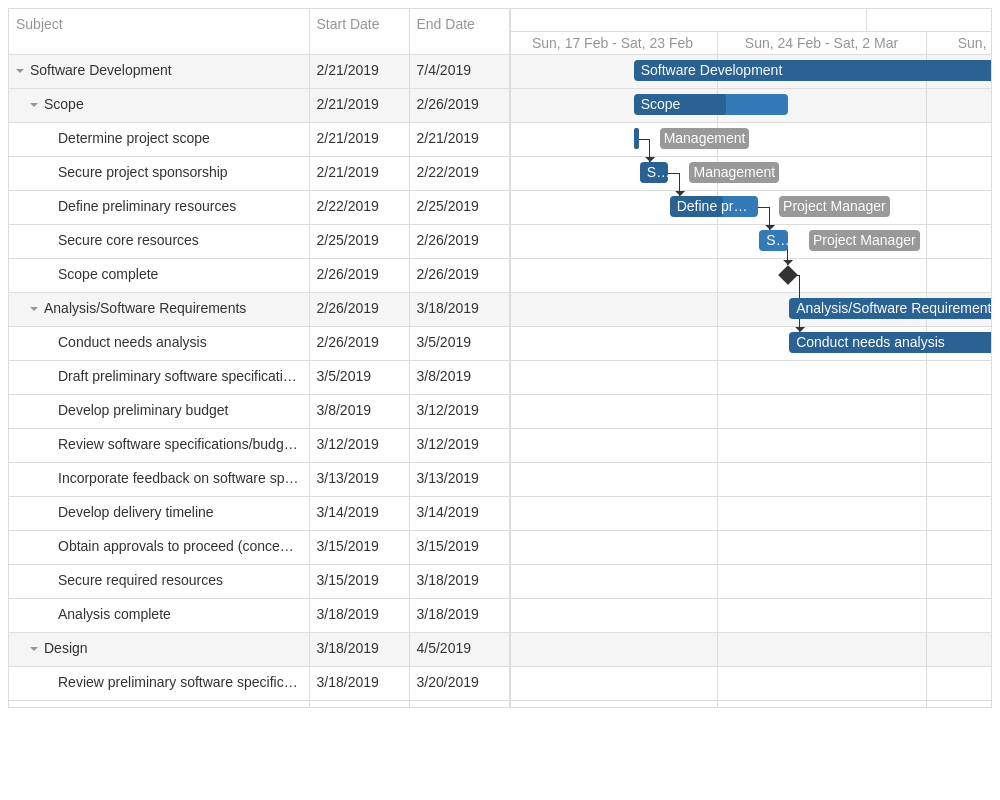
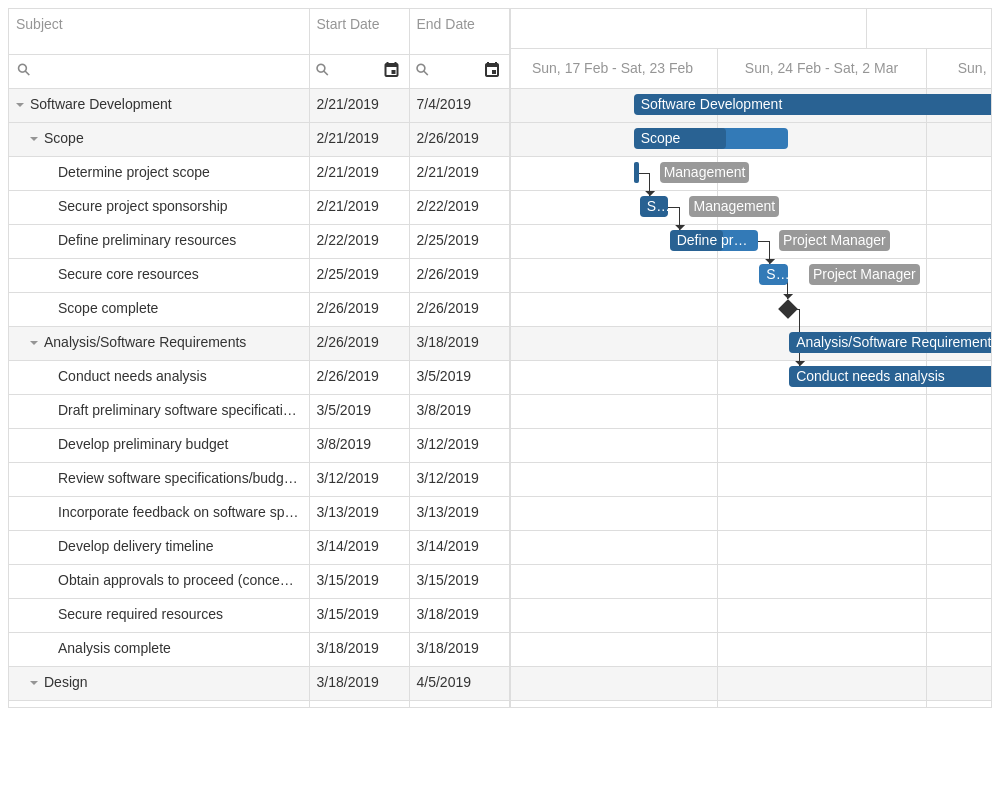
dxGantt: update Filtering demos (#1363)
* dxDiagram: update menu badges

* dxGantt: update Filtering demos

* dxGantt: Update FilterRow etalon

* dxGantt: temporary ignore react, vue, angular

diff --git a/JSDemos/Demos/Gantt/HeaderFilter/React/App.js b/JSDemos/Demos/Gantt/HeaderFilter/React/App.js
@@ -1,7 +1,7 @@
 import React from 'react';
 
 import Gantt, {
-  Tasks, Dependencies, Resources, ResourceAssignments, Column, Editing,
+  Tasks, Dependencies, Resources, ResourceAssignments, Column, Editing, HeaderFilter,
 } from 'devextreme-react/gantt';
 
 import {
@@ -27,6 +27,7 @@ class App extends React.Component {
         <Column dataField="end" caption="End Date" />
 
         <Editing enabled={true} />
+        <HeaderFilter visible={true} />
       </Gantt>
     );
   }

diff --git a/JSDemos/Demos/Gantt/FilterRow/React/App.js b/JSDemos/Demos/Gantt/FilterRow/React/App.js
@@ -1,7 +1,7 @@
 import React from 'react';
 
 import Gantt, {
-  Tasks, Dependencies, Resources, ResourceAssignments, Column, Editing,
+  Tasks, Dependencies, Resources, ResourceAssignments, Column, Editing, FilterRow,
 } from 'devextreme-react/gantt';
 
 import {
@@ -27,6 +27,7 @@ class App extends React.Component {
         <Column dataField="end" caption="End Date" />
 
         <Editing enabled={true} />
+        <FilterRow visible={true} />
       </Gantt>
     );
   }

diff --git a/JSDemos/Demos/Gantt/HeaderFilter/Vue/App.vue b/JSDemos/Demos/Gantt/HeaderFilter/Vue/App.vue
@@ -26,6 +26,7 @@
       data-field="end"
       caption="End Date"
     />
+    <DxGanttHeaderFilter :visible="true"/>
   </DxGantt>
 </template>
 <script>
@@ -37,6 +38,7 @@ import {
   DxResourceAssignments,
   DxColumn,
   DxEditing,
+  DxGanttHeaderFilter,
 } from 'devextreme-vue/gantt';
 
 import {
@@ -55,6 +57,7 @@ export default {
     DxResourceAssignments,
     DxColumn,
     DxEditing,
+    DxGanttHeaderFilter,
   },
   data() {
     return {

diff --git a/JSDemos/Demos/Gantt/FilterRow/Vue/App.vue b/JSDemos/Demos/Gantt/FilterRow/Vue/App.vue
@@ -26,6 +26,7 @@
       data-field="end"
       caption="End Date"
     />
+    <DxFilterRow :visible="true"/>
   </DxGantt>
 </template>
 <script>
@@ -37,6 +38,7 @@ import {
   DxResourceAssignments,
   DxColumn,
   DxEditing,
+  DxFilterRow,
 } from 'devextreme-vue/gantt';
 
 import {
@@ -55,6 +57,7 @@ export default {
     DxResourceAssignments,
     DxColumn,
     DxEditing,
+    DxFilterRow,
   },
   data() {
     return {

diff --git a/JSDemos/Demos/Gantt/HeaderFilter/Angular/app/app.component.html b/JSDemos/Demos/Gantt/HeaderFilter/Angular/app/app.component.html
@@ -14,4 +14,5 @@
     <dxi-column dataField="end" caption="End Date" dataType="date"></dxi-column>
 
     <dxo-editing [enabled]="true"></dxo-editing>
+    <dxo-header-filter  [visible]="true"></dxo-header-filter>
 </dx-gantt>

diff --git a/JSDemos/Demos/Gantt/FilterRow/Angular/app/app.component.html b/JSDemos/Demos/Gantt/FilterRow/Angular/app/app.component.html
@@ -14,4 +14,5 @@
     <dxi-column dataField="end" caption="End Date" dataType="date"></dxi-column>
 
     <dxo-editing [enabled]="true"></dxo-editing>
+    <dxo-filter-row [visible]="true"></dxo-filter-row>
 </dx-gantt>

diff --git a/JSDemos/Demos/Gantt/HeaderFilter/jQuery/index.js b/JSDemos/Demos/Gantt/HeaderFilter/jQuery/index.js
@@ -29,5 +29,8 @@ $(() => {
     }],
     scaleType: 'weeks',
     taskListWidth: 500,
+    headerFilter: {
+      visible: true,
+    },
   });
 });

diff --git a/JSDemos/Demos/Gantt/FilterRow/jQuery/index.js b/JSDemos/Demos/Gantt/FilterRow/jQuery/index.js
@@ -29,5 +29,8 @@ $(() => {
     }],
     scaleType: 'weeks',
     taskListWidth: 500,
+    filterRow: {
+      visible: true,
+    },
   });
 });

diff --git a/JSDemos/Demos/Gantt/Sorting/description.md b/JSDemos/Demos/Gantt/Sorting/description.md
@@ -4,6 +4,7 @@ The DevExtreme JavaScript Gantt component allows users to sort the displayed dat
 Click on a particular column header to sort the Gantt data by that column. A further click on the header will invert the sort order. A glyph within the column header indicates the sort order.
 - **Multiple**       
 Press and hold the **Shift** key and select column headers by clicking on them to sort the Gantt data by multiple columns. The overall sort order will depend on the order the column headers were selected. A number is displayed within the header to show the index of that column in the overall sort order.
+
 To exclude a column from the sort criteria, hold **Ctrl** and click the column header.
 
 A header’s context menu allows a user to define the column’s sort settings. To disable sorting for a particular column, set the column’s [allowSorting](/Documentation/ApiReference/UI_Components/dxGantt/Configuration/columns/#allowSorting) property to **false**.
